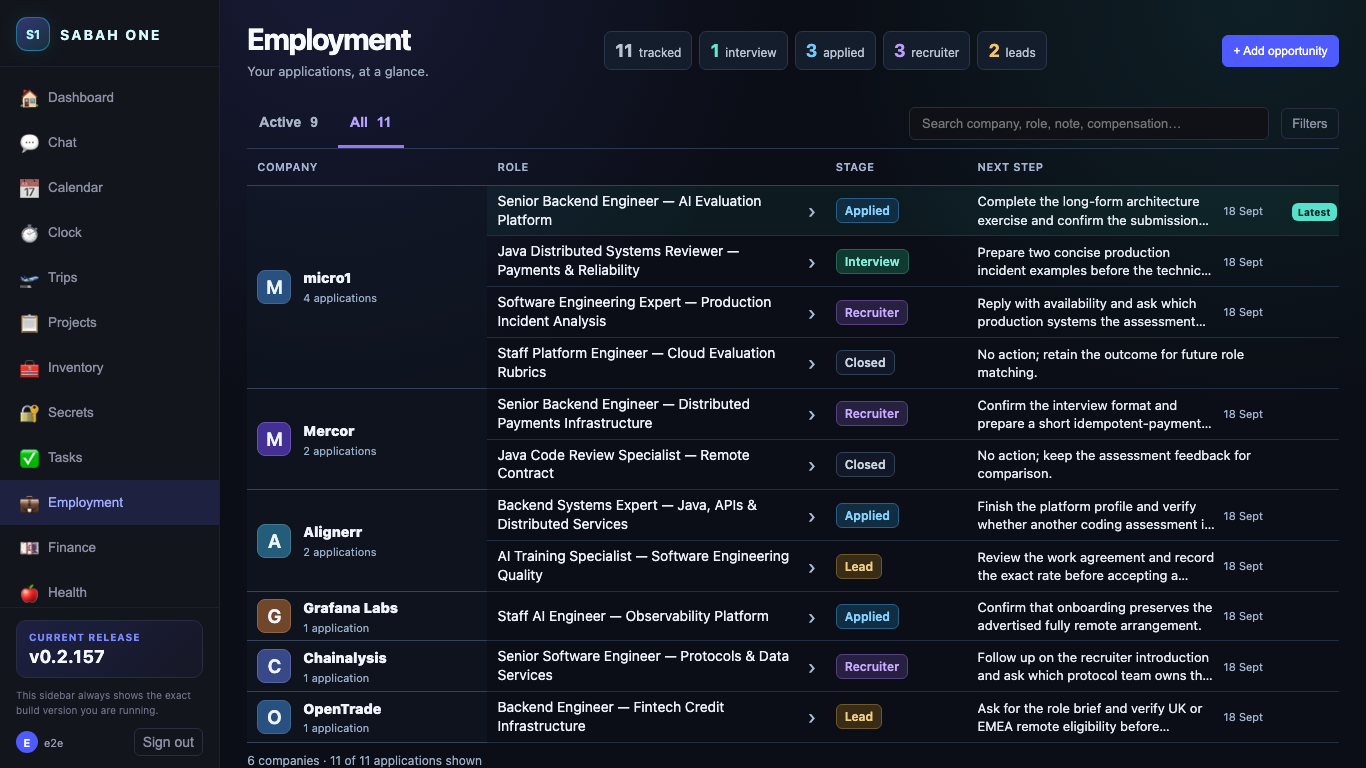
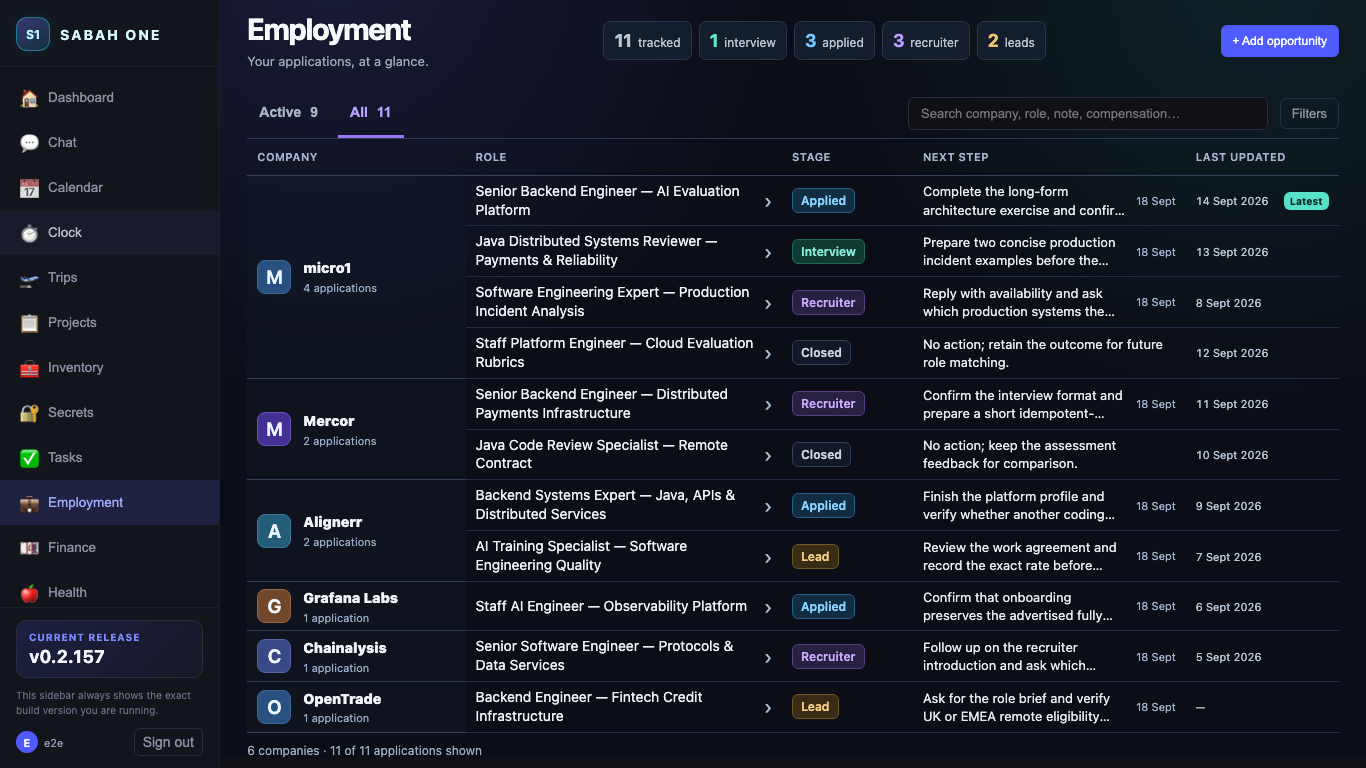
Expand Employment details inline

diff --git a/src/surfaces/EmploymentSurface.tsx b/src/surfaces/EmploymentSurface.tsx
@@ -1,4 +1,5 @@
 import {
+  Fragment,
   useEffect,
   useMemo,
   useRef,
@@ -319,36 +320,22 @@ export default function EmploymentSurface() {
   const [filters, setFilters] = useState<EmploymentFilters>({
     query: '', status: 'all', workType: 'all', remoteStatus: 'all',
   });
-  const [selectedId, setSelectedId] = useState<string | null>(null);
+  const [expandedId, setExpandedId] = useState<string | null>(null);
   const [editing, setEditing] = useState<EmploymentApplication | 'new' | null>(null);
   const returnFocusRef = useRef<HTMLElement | null>(null);
   const addButtonRef = useRef<HTMLButtonElement>(null);
-  const detailsHeadingRef = useRef<HTMLHeadingElement>(null);
-  const selectionRequestedRef = useRef(false);
 
   const filtered = useMemo(() => employment.applications.filter(application => (
     (!activeOnly || EMPLOYMENT_ACTIVE_STATUSES.includes(application.status))
     && matchesEmploymentFilters(application, filters)
   )), [employment.applications, activeOnly, filters]);
   const groups = useMemo(() => groupEmploymentApplications(filtered), [filtered]);
-  const selected = filtered.find(application => application.id === selectedId) ?? groups[0]?.applications[0];
   const latest = useMemo(() => getEmploymentActivity(filtered).find(entry => entry.date), [filtered]);
   const activeCount = employment.applications.filter(application => application.status !== 'closed').length;
   const filterCount = [filters.status, filters.workType, filters.remoteStatus].filter(value => value !== 'all').length;
 
-  useEffect(() => {
-    if (!selectionRequestedRef.current) return;
-    selectionRequestedRef.current = false;
-    detailsHeadingRef.current?.focus();
-  }, [selectedId]);
-
-  const selectApplication = (application: EmploymentApplication) => {
-    if (application.id === selectedId) {
-      detailsHeadingRef.current?.focus();
-    } else {
-      selectionRequestedRef.current = true;
-      setSelectedId(application.id);
-    }
+  const toggleApplication = (application: EmploymentApplication) => {
+    setExpandedId(current => current === application.id ? null : application.id);
   };
   const clearFilters = () => {
     setFilters({ query: '', status: 'all', workType: 'all', remoteStatus: 'all' });
@@ -399,19 +386,41 @@ export default function EmploymentSurface() {
 
       {!employment.loaded ? <p className="employment-loading" role="status">Loading your applications…</p> : filtered.length > 0 ? <>
         <table className="employment-overview" aria-label="Employment applications">
-          <caption className="sr-only">Applications grouped by company, most recent recruiting activity first. Select a role for details.</caption>
-          <colgroup><col className="employment-company-column" /><col className="employment-role-column" /><col className="employment-stage-column" /><col className="employment-next-column" /><col className="employment-latest-column" /></colgroup>
-          <thead><tr><th scope="col">Company</th><th scope="col">Role</th><th scope="col">Stage</th><th scope="col">Next step</th><th scope="col"><span className="sr-only">Latest activity</span></th></tr></thead>
+          <caption className="sr-only">Applications grouped by company, most recent recruiting activity first. Expand a role for details.</caption>
+          <colgroup><col className="employment-company-column" /><col className="employment-role-column" /><col className="employment-stage-column" /><col className="employment-next-column" /><col className="employment-updated-column" /></colgroup>
+          <thead><tr><th scope="col">Company</th><th scope="col">Role</th><th scope="col">Stage</th><th scope="col">Next step</th><th scope="col">Last updated</th></tr></thead>
           {groups.map((group, groupIndex) => <tbody key={group.key} className="employment-company-group">
-            {group.applications.map((application, index) => <tr key={application.id} className={`employment-application-row${selected?.id === application.id ? ' is-selected' : ''}`}>
-              {index === 0 && <th scope="rowgroup" rowSpan={group.applications.length} className="employment-company-cell">
-                <div className="employment-company-label"><span className={`employment-monogram company-colour-${groupIndex % 5}`} aria-hidden="true">{group.company.charAt(0).toLocaleUpperCase()}</span><span><strong>{group.company}</strong><small>{group.applications.length} {group.applications.length === 1 ? 'application' : 'applications'}</small></span></div>
-              </th>}
-              <td className="employment-role-cell"><button type="button" className="employment-role-button" aria-label={`Show details for ${application.company}: ${application.role}`} aria-controls="employment-details" onClick={() => selectApplication(application)}><span>{application.role}</span><span aria-hidden="true">›</span></button></td>
-              <td className="employment-stage-cell"><span className={`employment-status status-${application.status}`}>{labelFor(STATUS_OPTIONS, application.status)}</span></td>
-              <td className="employment-next-cell"><div className="employment-next-summary"><span title={application.nextAction}>{application.nextAction || 'No next step recorded'}</span>{application.nextActionDate && <small title={formatLocalDate(application.nextActionDate)}>{formatLocalDate(application.nextActionDate, false)}</small>}</div></td>
-              <td className="employment-latest-cell">{latest?.applicationId === application.id && <span className="employment-latest" title={`Latest recorded activity: ${formatLocalDate(getEmploymentActivityDate(application))}`}>Latest</span>}</td>
-            </tr>)}
+            {group.applications.map((application, index) => {
+              const expanded = expandedId === application.id;
+              const detailsId = `employment-details-${application.id}`;
+              const activityDate = getEmploymentActivityDate(application);
+              return <Fragment key={application.id}>
+                <tr className={`employment-application-row${expanded ? ' is-selected' : ''}`}>
+                  {index === 0 && <th scope="rowgroup" rowSpan={group.applications.length + (expandedId && group.applications.some(item => item.id === expandedId) ? 1 : 0)} className="employment-company-cell">
+                    <div className="employment-company-label"><span className={`employment-monogram company-colour-${groupIndex % 5}`} aria-hidden="true">{group.company.charAt(0).toLocaleUpperCase()}</span><span><strong>{group.company}</strong><small>{group.applications.length} {group.applications.length === 1 ? 'application' : 'applications'}</small></span></div>
+                  </th>}
+                  <td className="employment-role-cell"><button type="button" className="employment-role-button" aria-label={`${expanded ? 'Hide' : 'Show'} details for ${application.company}: ${application.role}`} aria-expanded={expanded} aria-controls={detailsId} onClick={() => toggleApplication(application)}><span>{application.role}</span><span className="employment-role-arrow" aria-hidden="true">›</span></button></td>
+                  <td className="employment-stage-cell"><span className={`employment-status status-${application.status}`}>{labelFor(STATUS_OPTIONS, application.status)}</span></td>
+                  <td className="employment-next-cell"><div className="employment-next-summary"><span title={application.nextAction}>{application.nextAction || 'No next step recorded'}</span>{application.nextActionDate && <small title={formatLocalDate(application.nextActionDate)}>{formatLocalDate(application.nextActionDate, false)}</small>}</div></td>
+                  <td className="employment-updated-cell">
+                    <div className="employment-updated-summary">
+                      {activityDate
+                        ? <time dateTime={activityDate} title={`Last recorded recruiting activity: ${formatLocalDate(activityDate)}`}>{formatLocalDate(activityDate)}</time>
+                        : <span title="No recorded recruiting activity date">—</span>}
+                      {latest?.applicationId === application.id && <span className="employment-latest" title="Most recently updated application">Latest</span>}
+                    </div>
+                  </td>
+                </tr>
+                {expanded && <tr className="employment-application-details-row">
+                  <td colSpan={4}>
+                    <section id={detailsId} className="employment-inline-details" aria-labelledby={`${detailsId}-heading`}>
+                      <div className="employment-section-heading"><h2 id={`${detailsId}-heading`}>Details &amp; history</h2><span>{application.company}</span></div>
+                      <OpportunityCard application={application} onEdit={() => openEditor(application, document.activeElement instanceof HTMLElement ? document.activeElement : addButtonRef.current!)} />
+                    </section>
+                  </td>
+                </tr>}
+              </Fragment>;
+            })}
           </tbody>)}
         </table>
         <p className="employment-result-count">{groups.length} {groups.length === 1 ? 'company' : 'companies'} · {filtered.length} of {employment.applications.length} applications shown</p>
@@ -420,10 +429,6 @@ export default function EmploymentSurface() {
         <button type="button" className="btn btn-secondary" onClick={clearFilters}>Clear filters</button>
       </div>}
 
-      {selected && <section id="employment-details" className="employment-details" aria-labelledby="employment-details-heading">
-        <div className="employment-section-heading"><h2 id="employment-details-heading" ref={detailsHeadingRef} tabIndex={-1}>Details &amp; history</h2><span>{selected.company}</span></div>
-        <OpportunityCard key={selected.id} application={selected} onEdit={() => openEditor(selected, document.activeElement instanceof HTMLElement ? document.activeElement : addButtonRef.current!)} />
-      </section>}
       {editing && <EmploymentEditor application={editing === 'new' ? undefined : editing} onClose={closeEditor} />}
     </div>
   );

diff --git a/e2e/employment.spec.ts b/e2e/employment.spec.ts
@@ -38,7 +38,7 @@ async function assertOverviewControlsContained(page: Page) {
   const violations = await page.locator('tr.employment-application-row').evaluateAll(rows => rows.flatMap((row, index) => {
     const rowBox = row.getBoundingClientRect();
     const roleBox = row.querySelector('.employment-role-button')?.getBoundingClientRect();
-    const controls = [...row.querySelectorAll('.employment-role-button, .employment-status, .employment-latest')];
+    const controls = [...row.querySelectorAll('.employment-role-button, .employment-status, .employment-updated-summary')];
     const outside = controls
       .filter(control => {
         const box = control.getBoundingClientRect();
@@ -56,7 +56,7 @@ async function assertOverviewControlsContained(page: Page) {
   expect(violations).toEqual([]);
 }
 
-test('groups the representative Employment pipeline and switches the selected details', async ({ page, scenario }) => {
+test('groups the representative Employment pipeline and expands details inline', async ({ page, scenario }) => {
   await page.setViewportSize({ width: 1440, height: 900 });
   await scenario({
     now: NOW,
@@ -72,20 +72,28 @@ test('groups the representative Employment pipeline and switches the selected de
   await expect(page.getByRole('button', {
     name: 'Show details for MICRO1: Staff Platform Engineer — Cloud Evaluation Rubrics',
   })).toHaveCount(0);
-  await expect(page.locator('#employment-details').getByRole('heading', {
-    name: 'Senior Backend Engineer — AI Evaluation Platform',
-  })).toBeVisible();
+  await expect(table.getByRole('columnheader', { name: 'Last updated' })).toBeVisible();
+  await expect(table.getByTitle('Last recorded recruiting activity: 14 Sept 2026')).toHaveText('14 Sept 2026');
+  await expect(table.getByTitle('No recorded recruiting activity date')).toHaveText('—');
+  await expect(page.locator('.employment-inline-details')).toHaveCount(0);
 
   const mercorRole = 'Senior Backend Engineer — Distributed Payments Infrastructure';
-  const mercor = page.getByRole('button', { name: `Show details for Mercor: ${mercorRole}` });
+  const mercor = page.getByRole('button', { name: new RegExp(`details for Mercor: ${mercorRole}$`, 'u') });
+  const detailsId = await mercor.getAttribute('aria-controls');
   await mercor.focus();
   await mercor.press('Enter');
-  await expect(page.locator('#employment-details').getByRole('heading', { name: 'Details & history' })).toBeFocused();
-  await expect(page.locator('#employment-details').getByRole('heading', { name: mercorRole })).toBeVisible();
-  await expect(page.locator('#employment-details').getByRole('heading', {
-    name: 'Senior Backend Engineer — AI Evaluation Platform',
-  })).toHaveCount(0);
-  await expect(page.locator('#employment-details').getByRole('button', { name: 'Edit opportunity' })).toBeVisible();
+  await expect(mercor).toBeFocused();
+  await expect(mercor).toHaveAttribute('aria-expanded', 'true');
+  const details = page.locator(`#${detailsId}`);
+  await expect(details.getByRole('heading', { name: 'Details & history' })).toBeVisible();
+  await expect(details.getByRole('heading', { name: mercorRole })).toBeVisible();
+  await expect(details.getByText('Compensation', { exact: true })).toBeVisible();
+  await expect(details.getByRole('button', { name: 'Edit opportunity' })).toBeVisible();
+  expect(await details.locator('xpath=ancestor::tr/preceding-sibling::tr[1]').getAttribute('class')).toContain('employment-application-row');
+
+  await mercor.press('Enter');
+  await expect(page.locator('.employment-inline-details')).toHaveCount(0);
+  await expect(mercor).toHaveAttribute('aria-expanded', 'false');
 
   await page.getByRole('button', { name: 'All applications' }).click();
   await expect(table.locator('tr.employment-application-row')).toHaveCount(ALL_APPLICATION_COUNT);
@@ -129,13 +137,16 @@ test('adds, reloads, edits, and removes an Employment opportunity', async ({ pag
     name: 'Show details for Example Ltd: Remote Platform Engineer',
   });
   await expect(addedRole).toBeVisible();
+  const addedDetailsId = await addedRole.getAttribute('aria-controls');
   await addedRole.click();
-  await expect(page.locator('#employment-details').getByRole('heading', { name: 'Remote Platform Engineer' })).toBeVisible();
+  await expect(page.locator(`#${addedDetailsId}`).getByRole('heading', { name: 'Remote Platform Engineer' })).toBeVisible();
 
   await page.reload();
   await expect(page.getByRole('heading', { name: 'Employment' })).toBeVisible();
-  await page.getByRole('button', { name: 'Show details for Example Ltd: Remote Platform Engineer' }).click();
-  await page.locator('#employment-details').getByRole('button', { name: 'Edit opportunity' }).click();
+  const reloadedRole = page.getByRole('button', { name: 'Show details for Example Ltd: Remote Platform Engineer' });
+  const reloadedDetailsId = await reloadedRole.getAttribute('aria-controls');
+  await reloadedRole.click();
+  await page.locator(`#${reloadedDetailsId}`).getByRole('button', { name: 'Edit opportunity' }).click();
   await expect(page.getByRole('textbox', { name: 'Company' })).toBeFocused();
   await page.getByRole('button', { name: 'Remove record' }).click();
   const removeWrite = waitForMutation(page, 'employment');
@@ -167,12 +178,13 @@ test('keeps Employment keyboard-accessible, scrollable, and overflow-free at nar
   }
 
   await page.setViewportSize({ width: 390, height: 844 });
-  const role = page.getByRole('button', {
-    name: 'Show details for Mercor: Senior Backend Engineer — Distributed Payments Infrastructure',
-  });
+  const role = page.getByRole('button', { name: /details for Mercor: Senior Backend Engineer — Distributed Payments Infrastructure$/u });
+  const roleDetailsId = await role.getAttribute('aria-controls');
   await role.focus();
   await role.press('Enter');
-  await expect(page.locator('#employment-details').getByRole('heading', { name: 'Details & history' })).toBeFocused();
+  await expect(role).toBeFocused();
+  await expect(role).toHaveAttribute('aria-expanded', 'true');
+  await expect(page.locator(`#${roleDetailsId}`).getByRole('heading', { name: 'Details & history' })).toBeVisible();
 
   const addTrigger = page.getByRole('button', { name: '+ Add opportunity' });
   await addTrigger.focus();
@@ -215,9 +227,15 @@ test('captures Employment overview and mobile details evidence @visual', async (
     await page.setViewportSize({ width, height });
     await expect(page.getByRole('table', { name: 'Employment applications' })).toBeVisible();
     await assertNoPageOverflow(page);
+    const mobileRole = page.getByRole('button', { name: /details for Mercor: Senior Backend Engineer — Distributed Payments Infrastructure$/u });
+    if (width <= 390) {
+      await mobileRole.click();
+      await expect(mobileRole).toHaveAttribute('aria-expanded', 'true');
+    }
     const path = process.env.HELM_CAPTURE_EMPLOYMENT_EVIDENCE === '1'
       ? resolve(evidenceDirectory, `employment-${viewport}.png`)
       : testInfo.outputPath(`employment-${viewport}.png`);
     await page.screenshot({ path });
+    if (width <= 390) await mobileRole.click();
   }
 });

diff --git a/src/App.css b/src/App.css
@@ -12097,7 +12097,7 @@ button {
 .employment-filter-options,
 .employment-overview,
 .employment-result-count,
-.employment-details {
+.employment-inline-details {
   width: min(100%, 1500px);
   margin-inline: auto;
 }
@@ -12131,11 +12131,11 @@ button {
 .employment-filter-options select { width: 100%; min-width: 0; }
 
 .employment-overview { table-layout: fixed; border-collapse: collapse; color: #e6eaf2; }
-.employment-company-column { width: 22%; }
-.employment-role-column { width: 31%; }
-.employment-stage-column { width: 13%; }
-.employment-next-column { width: 28%; }
-.employment-latest-column { width: 6%; }
+.employment-company-column { width: 20%; }
+.employment-role-column { width: 29%; }
+.employment-stage-column { width: 12%; }
+.employment-next-column { width: 25%; }
+.employment-updated-column { width: 14%; }
 .employment-overview thead th { height: 36px; padding: 8px 10px; color: #a4b4d0; font-size: 11px; font-weight: 600; text-align: left; text-transform: uppercase; letter-spacing: .04em; }
 .employment-application-row { height: 46px; }
 .employment-overview td { padding: 6px 10px; border-bottom: 1px solid #222e41; }
@@ -12152,7 +12152,8 @@ button {
 .employment-monogram.company-colour-4 { background: #394887; border-color: #5665a6; }
 .employment-role-button { display: flex; align-items: center; justify-content: space-between; gap: 6px; width: 100%; min-height: 32px; padding: 0; border: 0; background: transparent; color: #edf1f9; font: inherit; font-size: 14px; line-height: 1.35; text-align: left; cursor: pointer; }
 .employment-role-button > span:first-child { display: -webkit-box; -webkit-line-clamp: 2; -webkit-box-orient: vertical; overflow: hidden; overflow-wrap: anywhere; }
-.employment-role-button > span:last-child { color: #a8b9d3; font-size: 20px; }
+.employment-role-arrow { color: #a8b9d3; font-size: 20px; transition: transform 140ms ease; }
+.employment-role-button[aria-expanded='true'] .employment-role-arrow { transform: rotate(90deg); }
 .employment-role-button:hover { color: #81ebdc; }
 .employment-application-row.is-selected td { background: rgba(41, 190, 163, .08); }
 .employment-compact .employment-status { border-radius: 6px; min-height: 25px; padding: 3px 8px; font-size: 12px; font-weight: 600; }
@@ -12165,12 +12166,14 @@ button {
 .employment-next-summary { display: flex; align-items: center; gap: 8px; }
 .employment-next-summary > span { display: -webkit-box; -webkit-line-clamp: 2; -webkit-box-orient: vertical; overflow: hidden; overflow-wrap: anywhere; }
 .employment-next-summary small { flex-shrink: 0; color: #a4b4d0; font-size: 11px; white-space: nowrap; }
-.employment-overview .employment-latest-cell { padding-inline: 2px; text-align: right; }
+.employment-updated-cell { font-size: 11px; font-variant-numeric: tabular-nums; }
+.employment-updated-summary { display: flex; align-items: center; justify-content: space-between; gap: 5px; color: #b9c6d8; }
+.employment-updated-summary time { white-space: nowrap; }
 .employment-latest { display: inline-block; border-radius: 6px; padding: 3px 6px; background: #57e1ca; color: #082922; font-size: 10px; font-weight: 750; }
 .employment-result-count { padding: 10px 0; margin-block: 0; color: #9cacc3; font-size: 12px; }
-.employment-details { padding-top: 17px; margin-top: 7px; border-top: 1px solid #29364c; scroll-margin-top: 16px; }
-.employment-details h2 { scroll-margin-top: 16px; }
-.employment-details h2:focus-visible { outline: 2px solid #5eead4; outline-offset: 4px; }
+.employment-application-details-row > td { padding: 0 10px 14px; background: rgba(41, 190, 163, .045); }
+.employment-inline-details { padding-top: 12px; border-top: 1px solid #314158; }
+.employment-inline-details .employment-section-heading { margin-bottom: 10px; }
 .employment-compact .employment-card { box-shadow: none; border-radius: 10px; }
 .employment-compact .employment-card h3 { font-size: 18px; }
 
@@ -12180,11 +12183,11 @@ button {
   .employment-overview td, .employment-overview thead th { padding-inline: 6px; }
   .employment-company-label { gap: 7px; }
   .employment-monogram { flex-basis: 28px; width: 28px; height: 28px; font-size: 16px; }
-  .employment-company-column { width: 23%; }
-  .employment-role-column { width: 29%; }
-  .employment-stage-column { width: 15%; }
-  .employment-next-column { width: 26%; }
-  .employment-latest-column { width: 7%; }
+  .employment-company-column { width: 21%; }
+  .employment-role-column { width: 28%; }
+  .employment-stage-column { width: 13%; }
+  .employment-next-column { width: 24%; }
+  .employment-updated-column { width: 14%; }
 }
 
 @media (max-width: 1024px) {
@@ -12215,8 +12218,10 @@ button {
   .employment-role-button > span:first-child { display: block; overflow: visible; }
   .employment-stage-cell { grid-column: 2; align-self: center; }
   .employment-next-cell { grid-column: 1 / -1; color: #acbdd2; }
-  .employment-overview .employment-latest-cell { grid-column: 2; padding: 0 6px 4px; }
-  .employment-latest-cell:empty { display: none; }
-  .employment-company-group .employment-application-row + .employment-application-row { border-top: 1px solid #222e41; }
-  .employment-details { margin-top: 0; }
+  .employment-updated-cell { grid-column: 2; padding: 0 6px 4px; }
+  .employment-updated-cell::before { display: block; margin-bottom: 2px; color: #8294ae; font-size: 9px; font-weight: 650; text-transform: uppercase; content: 'Last updated'; }
+  .employment-updated-summary { align-items: flex-end; flex-direction: column; }
+  .employment-application-details-row { display: block; }
+  .employment-application-details-row > td { display: block; width: 100%; padding: 4px 6px 14px; }
+  .employment-company-group :is(.employment-application-row, .employment-application-details-row) + .employment-application-row { border-top: 1px solid #222e41; }
 }

diff --git a/src/test/employment-surface.test.tsx b/src/test/employment-surface.test.tsx
@@ -54,6 +54,7 @@ describe('Employment surface', () => {
     expect(screen.getByRole('heading', { name: 'Employment' })).toBeInTheDocument();
     expect(screen.getByRole('button', { name: '+ Add opportunity' })).toBeInTheDocument();
     const table = screen.getByRole('table', { name: 'Employment applications' });
+    expect(within(table).getByRole('columnheader', { name: 'Last updated' })).toBeInTheDocument();
 
     expect(container.querySelectorAll('tbody.employment-company-group')).toHaveLength(6);
     expect(container.querySelectorAll('tr.employment-application-row')).toHaveLength(ACTIVE_APPLICATION_COUNT);
@@ -65,13 +66,10 @@ describe('Employment surface', () => {
     expect(roleButtons[0]).toHaveAccessibleName(
       'Show details for micro1: Senior Backend Engineer — AI Evaluation Platform',
     );
-
-    const details = container.querySelector<HTMLElement>('#employment-details');
-    expect(details).not.toBeNull();
-    expect(within(details!).getByRole('heading', { name: 'Details & history' })).toBeInTheDocument();
-    expect(within(details!).getByRole('heading', {
-      name: 'Senior Backend Engineer — AI Evaluation Platform',
-    })).toBeInTheDocument();
+    expect(roleButtons[0]).toHaveAttribute('aria-expanded', 'false');
+    expect(screen.queryByRole('heading', { name: 'Details & history' })).not.toBeInTheDocument();
+    expect(within(table).getByTitle('Last recorded recruiting activity: 14 Sept 2026')).toHaveTextContent('14 Sept 2026');
+    expect(within(table).getByTitle('No recorded recruiting activity date')).toHaveTextContent('—');
 
     fireEvent.click(screen.getByRole('button', { name: 'All applications' }));
     expect(container.querySelectorAll('tr.employment-application-row')).toHaveLength(ALL_APPLICATION_COUNT);
@@ -81,18 +79,26 @@ describe('Employment surface', () => {
     expect(micro1Group?.querySelectorAll('tr.employment-application-row')).toHaveLength(4);
   });
 
-  it('selects one role at a time and keeps its existing Opportunity details and editor', () => {
+  it('expands one role inline and keeps its existing Opportunity details and editor', () => {
     const { container } = render(<EmploymentSurface />);
     const selectedRole = 'Senior Backend Engineer — Distributed Payments Infrastructure';
 
-    fireEvent.click(screen.getByRole('button', {
+    const roleButton = screen.getByRole('button', {
       name: `Show details for Mercor: ${selectedRole}`,
-    }));
+    });
+    roleButton.focus();
+    fireEvent.click(roleButton);
 
-    const details = container.querySelector<HTMLElement>('#employment-details');
+    expect(roleButton).toHaveAttribute('aria-expanded', 'true');
+    expect(roleButton).toHaveFocus();
+    const detailsId = roleButton.getAttribute('aria-controls')!;
+    const details = container.querySelector<HTMLElement>(`#${detailsId}`);
     expect(details).not.toBeNull();
-    expect(within(details!).getByRole('heading', { name: 'Details & history' })).toHaveFocus();
+    expect(details!.closest('tr')?.previousElementSibling).toBe(roleButton.closest('tr'));
+    expect(details!.closest('tbody')?.querySelector('th[scope="rowgroup"]')).toHaveAttribute('rowspan', '2');
+    expect(within(details!).getByRole('heading', { name: 'Details & history' })).toBeInTheDocument();
     expect(within(details!).getByRole('heading', { name: selectedRole })).toBeInTheDocument();
+    expect(within(details!).getByText('Compensation')).toBeInTheDocument();
     expect(within(details!).queryByRole('heading', {
       name: 'Senior Backend Engineer — AI Evaluation Platform',
     })).not.toBeInTheDocument();
@@ -106,6 +112,12 @@ describe('Employment surface', () => {
     fireEvent.keyDown(screen.getByRole('textbox', { name: 'Company' }), { key: 'Escape' });
     expect(screen.queryByRole('dialog', { name: 'Edit opportunity' })).not.toBeInTheDocument();
     expect(edit).toHaveFocus();
+
+    fireEvent.click(screen.getByRole('button', {
+      name: 'Show details for micro1: Senior Backend Engineer — AI Evaluation Platform',
+    }));
+    expect(container.querySelectorAll('.employment-inline-details')).toHaveLength(1);
+    expect(screen.queryByRole('heading', { name: selectedRole })).not.toBeInTheDocument();
   });
 
   it('keeps active-only as the default and exposes search plus the three existing filters', () => {

diff --git a/e2e/support/employment-scenario.ts b/e2e/support/employment-scenario.ts
@@ -153,8 +153,6 @@ export function createRepresentativeEmploymentState(): EmploymentTrackerState {
         company: 'OpenTrade',
         role: 'Backend Engineer — Fintech Credit Infrastructure',
         status: 'lead',
-        applicationDate: '2026-08-30',
-        historyDate: '2026-09-04',
         nextAction: 'Ask for the role brief and verify UK or EMEA remote eligibility before progressing.',
       }),
     ],

diff --git a/docs/feature-status.md b/docs/feature-status.md
@@ -21,7 +21,7 @@ Use this matrix when updating documentation or UI copy. `real` means the hosted 
 | Lina activity log and undo | `real` | Chat and voice mutations create account-backed audit entries with grounded undo metadata. One workflow-named coordinator owns the supported task, prayer, calendar, finance, and knowledge inverse operations. |
 | Global Inventory | `real` | Account-backed Owned and Needed records support search, filters, dimensions, specifications, stock changes, acquisition, archive, and reviewed multiline import. Projects link to the same catalogue by stable key. |
 | Inventory planning boundary | `real` | The authenticated `sabah-one-inventory-mcp` Edge Function exposes seven narrow Inventory tools through Supabase OAuth, RLS, and dedicated RPCs. It does not expose Secrets, finance, calendars, chats, settings, or broad mutations. |
-| Employment application tracker | `real` | The account-backed Employment tab opens with a compact active-application overview grouped by company, coloured stage labels, next steps, and the latest recorded recruiting activity first. All includes closed applications; search and optional filters narrow the list. Selecting a role opens its full details, remote evidence, notes, and contact history below the overview. The same account-owned application IDs, editor, semantic mutations, and three confirmed seed records are retained; import timestamps do not masquerade as recruiting dates. |
+| Employment application tracker | `real` | The account-backed Employment tab opens with a compact active-application overview grouped by company, coloured stage labels, next steps, and a visible last-updated date sourced from recorded recruiting activity. All includes closed applications; search and optional filters narrow the list. Each role expands its full details, compensation, remote evidence, notes, editor, and contact history directly beneath that application. The same account-owned application IDs, semantic mutations, and three confirmed seed records are retained; import timestamps do not masquerade as recruiting dates. |
 | Employment external agent access | `real` | Six semantic application/history tools use a separate Employment OAuth approval and account-scoped RPCs. Browser and agent edits share semantic mutations; retries are idempotent and revocation blocks subsequent access. Scheduled Codex agents reconcile recruiting sources after their Employment connection is authorized. |
 | Cross-feature external agent access | `required-gap` | `docs/agent-access.md` makes domain-scoped MCP the required external AI interface. Inventory and Employment have separate external domains; other features must add a narrow MCP contract when materially changed. Secrets remain intentionally excluded. |
 | AI diagnostics in Debug | `real` | Debug shows hosted assistant readiness, the latest planning and validation trace, pending confirmation, execution facts, narration response, and hosted usage estimates without exposing tokens. |
